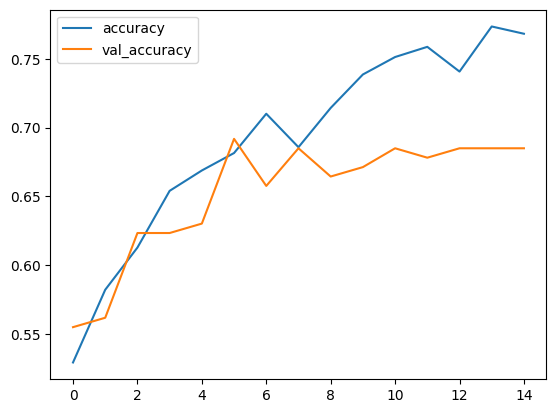
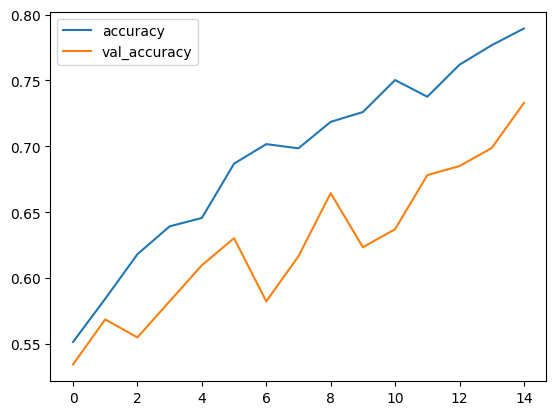
terceiro ponto de controle 2
atualização da predição e acurácia apos yago rodar pela segunda vez

diff --git a/principal.tex b/principal.tex
@@ -8,7 +8,7 @@
 \usepackage{graphicx}
 \usepackage{csvsimple}
 \usepackage[ruled,vlined]{algorithm2e}
-
+\usepackage{xcolor}
 
 
 %%%%%%%%%%%%%%%%%%%%%%%%%%
@@ -69,7 +69,7 @@
 \begin{abstract}
 \noindent
 
-O câncer de mama é a doença mais comum entre as mulheres do mundo e também o segundo tipo de tumor maligno mais incidente no Brasil. De acordo com dados do Instituto Nacional de Câncer, existe uma previsão de 74 mil novos casos por ano, até 2025. Sem uma causa específica, a doença tem aumento no risco de se desenvolver a partir de fatores genéticos, hereditários, idade, entre outros. Diante do avanço computacional e a invenção de aparelhos de raio-x que usam radiação eletromagnética de alta energia para gerar imagens do interior do corpo humano, tornou-se possível identificar células com câncer por meio de exames mamográficos. Tendo isso em vista, o presente artigo aplica a técnica de processamento e análise de imagens para detectar se um conjunto de células são cancerosas. Para isso, foram utilizados métodos de treinamento de Inteligência Artificial usando Aprendizado por Transferência. O método proposto foi utilizado em experimentos na base \textit{Curated Breast Imaging Subset DDSM} em 1555 imagens, conseguindo uma acurácia de 68,49\%.
+O câncer de mama é a doença mais comum entre as mulheres do mundo e também o segundo tipo de tumor maligno mais incidente no Brasil. De acordo com dados do Instituto Nacional de Câncer, existe uma previsão de 74 mil novos casos por ano, até 2025. Sem uma causa específica, a doença tem aumento no risco de se desenvolver a partir de fatores genéticos, hereditários, idade, entre outros. Diante do avanço computacional e a invenção de aparelhos de raio-x que usam radiação eletromagnética de alta energia para gerar imagens do interior do corpo humano, tornou-se possível identificar células com câncer por meio de exames mamográficos. Tendo isso em vista, o presente artigo aplica a técnica de processamento e análise de imagens para detectar se um conjunto de células são cancerosas. Para isso, foram utilizados métodos de treinamento de Inteligência Artificial usando Aprendizado por Transferência. O método proposto foi utilizado em experimentos na base \textit{Curated Breast Imaging Subset DDSM} em 1555 imagens, conseguindo uma acurácia de 73,29\%.
 \\\textbf{\keyword{Palavras-chave: }} Câncer de Mama. Mamografia. Inteligência Artificial.
 \end{abstract}
 
@@ -78,7 +78,7 @@ O câncer de mama é a doença mais comum entre as mulheres do mundo e também o
 \selectlanguage{english}
 \begin{abstract}
 \noindent
-Breast cancer is the most common disease among women in the world, and also the second most common type of malignant tumor in Brazil. According to data from the National Cancer Institute, there is a forecast of 74 thousand new cases per year, until 2025. Without a specific cause, the disease has an increased risk of developing from genetic, hereditary factors, age, among others. Given the computational advances and the invention of x-ray devices that use high-energy electromagnetic radiation to generate images of the interior of the human body, it has become possible to identify cancer cells through mammographic exams. With this in mind, this article aims to address the image processing and analysis technique to detect whether the set of cells is cancerous. For this, Artificial intelligence training methods using Transfer Learning were used. The proposed method was used in experiments based on Curated Breast Imaging Subset DDSM in 1555 images, achieving an accuracy of 68,49\%.
+Breast cancer is the most common disease among women in the world, and also the second most common type of malignant tumor in Brazil. According to data from the National Cancer Institute, there is a forecast of 74 thousand new cases per year, until 2025. Without a specific cause, the disease has an increased risk of developing from genetic, hereditary factors, age, among others. Given the computational advances and the invention of x-ray devices that use high-energy electromagnetic radiation to generate images of the interior of the human body, it has become possible to identify cancer cells through mammographic exams. With this in mind, this article aims to address the image processing and analysis technique to detect whether the set of cells is cancerous. For this, Artificial intelligence training methods using Transfer Learning were used. The proposed method was used in experiments based on Curated Breast Imaging Subset DDSM in 1555 images, achieving an accuracy of 73,29\%
 \\\textbf{\keyword{Palavras-chave: }} Breast Cancer. Mammography. Artificial intelligence.
 \end{abstract}
 

diff --git a/textos.tex b/textos.tex
@@ -347,7 +347,7 @@ No modelo proposto um único \textit{Callback} foi atribuído, usado para salvar
 
 % \subsection{\esp Resultados Preliminares} \label{prelim}
 
-Como resultado preliminares, para avaliar o modelo proposto, foi utilizada a biblioteca \textit{Pandas} que manipula e faz a análise de dados. Outrossim, foi feita a análise da acurácia e perda do modelo, onde o histórico do treino pode ser observado na Tabela \ref{tab:history10}. Além disso, as Figuras \ref{fig:acc10} e \ref{fig:loss10} representam os gráficos de acurácia e perda. Analisando os dados apresentados na Tabela \ref{tab:history10} em conjunto com a Figura \ref{fig:acc10}, é possível observar que a acurácia do modelo durante o treinamento demonstra um aumento gradual ao longo das épocas, registrando um notável aumento de 45,15\% desde a primeira até a última época. No entanto, durante a fase de validação, a acurácia oscila em uma escala menor. Começando em 55,48\%, ela estabiliza em 68,49\%, refletindo um aumento de 23,43\%. 
+Como resultado preliminares, para avaliar o modelo proposto, foi utilizada a biblioteca \textit{Pandas} que manipula e faz a análise de dados. Outrossim, foi feita a análise da acurácia e perda do modelo, onde o histórico do treino pode ser observado na Tabela \ref{tab:history10}. Além disso, as Figuras \ref{fig:acc10} e \ref{fig:loss10} representam os gráficos de acurácia e perda. Analisando os dados apresentados na Tabela \ref{tab:history10} em conjunto com a Figura \ref{fig:acc10}, é possível observar que a acurácia do modelo durante o treinamento demonstra um aumento gradual ao longo das épocas, registrando um notável aumento de 43,27\% desde a primeira até a última época. No entanto, durante a fase de validação, a acurácia oscila em uma escala menor. Começando em 53,42\%, ela estabiliza em 73,29\%, refletindo um aumento de 37,22\%. 
 
 \begin{table}[h]
   \centering
@@ -358,21 +358,21 @@ Como resultado preliminares, para avaliar o modelo proposto, foi utilizada a bib
   \hline
    épocas & \textit{loss} treinamento & \textit{accuracy} treinamento & \textit{loss} validação & \textit{accuracy} validação \\
   \hline
-    1 & 0.7770 & 0.5291 & 0.6806 & 0.5548 \\ 
-    2 & 0.6956 & 0.5820 & 0.6624 & 0.5616 \\
-    3 & 0.6508 & 0.6127 & 0.6406 & 0.6233 \\
-    4 & 0.6306 & 0.6540 & 0.6374 & 0.6233 \\
-    5 & 0.6212 & 0.6688 & 0.6294 & 0.6301 \\
-    6 & 0.5903 & 0.6815 & 0.6261 & 0.6918 \\
-    7 & 0.5809 & 0.7101 & 0.6160 & 0.6575 \\
-    8 & 0.5730 & 0.6857 & 0.6042 & 0.6849 \\
-    9 & 0.5569 & 0.7143 & 0.6151 & 0.6644 \\
-    10 & 0.5348 & 0.7386 & 0.6109 & 0.6712 \\ 
-    11 & 0.5101 & 0.7513 & 0.5972 & 0.6849 \\
-    12 & 0.5088 & 0.7587 & 0.5961 & 0.6781 \\
-    13 & 0.5088 & 0.7407 & 0.5963 & 0.6849 \\
-    14 & 0.4929 & 0.7735 & 0.5905 & 0.6849 \\
-    15 & 0.4776 & 0.7683 & 0.5879 & 0.6849 \\
+    1 & 0.7826 & 0.5513 & 0.7033 & 0.5342 \\
+    2 & 0.7023 & 0.5841 & 0.6717 & 0.5685 \\
+    3 & 0.6649 & 0.6180 & 0.6552 & 0.5548 \\
+    4 & 0.6449 & 0.6392 & 0.6446 & 0.5822 \\
+    5 & 0.6189 & 0.6455 & 0.6437 & 0.6096 \\
+    6 & 0.5989 & 0.6868 & 0.6443 & 0.6301 \\
+    7 & 0.5678 & 0.7016 & 0.6551 & 0.5822 \\
+    8 & 0.5702 & 0.6984 & 0.6334 & 0.6164 \\
+    9 & 0.5534 & 0.7185 & 0.6253 & 0.6644 \\
+    10 & 0.5381 & 0.7259 & 0.6207 & 0.6233 \\ 
+    11 & 0.5188 & 0.7503 & 0.6178 & 0.6370 \\
+    12 & 0.5129 & 0.7376 & 0.6069 & 0.6781 \\
+    13 & 0.4916 & 0.7619 & 0.6010 & 0.6849 \\
+    14 & 0.4873 & 0.7767 & 0.6002 & 0.6986 \\
+    15 & 0.4674 & 0.7894 & 0.5903 & 0.7329 \\
   \hline
 \end{tabular}
 	\vspace{0.2cm}
